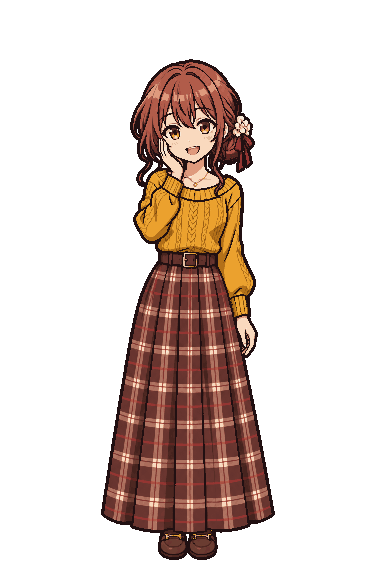
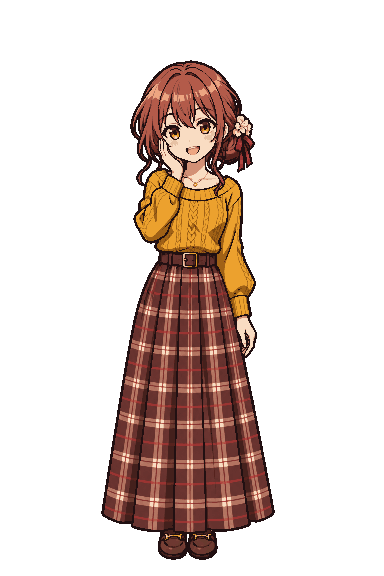
34番の固有ポーズの線をまん中くらいの太さに

diff --git a/app/sw.js b/app/sw.js
@@ -1,6 +1,6 @@
 // オフライン対応：アプリ本体と絵を端末に保存して、電波がなくても開けるようにする
 // 版を上げるときは VERSION を変える（古い保存は消える）
-const VERSION = 'tabiquest-v0.10.217';
+const VERSION = 'tabiquest-v0.10.218';
 const CORE = [
   './', 'index.html', 'manifest.json', 'css/app.css', 'vendor/three.r128.min.js',
   'js/main.js', 'js/card.js', 'js/places.js', 'js/photo_places.js', 'js/plain_places.js', 'js/store.js', 'js/geo.js', 'js/conditions.js', 'js/ui.js', 'js/arrival.js', 'js/zukan.js', 'js/debug.js', 'js/mihon.js',

diff --git a/app/js/main.js b/app/js/main.js
@@ -50,7 +50,7 @@ import * as scramble from './scenes/scramble.js';
 import * as kamakura from './scenes/kamakura.js';
 import * as photo from './scenes/photo.js';
 
-export const VERSION = '0.10.217';
+export const VERSION = '0.10.218';
 engine.register('minatomirai', minatomirai.build);
 engine.register('chukagai', chukagai.build);
 engine.register('tokyotower', tokyotower.build);
